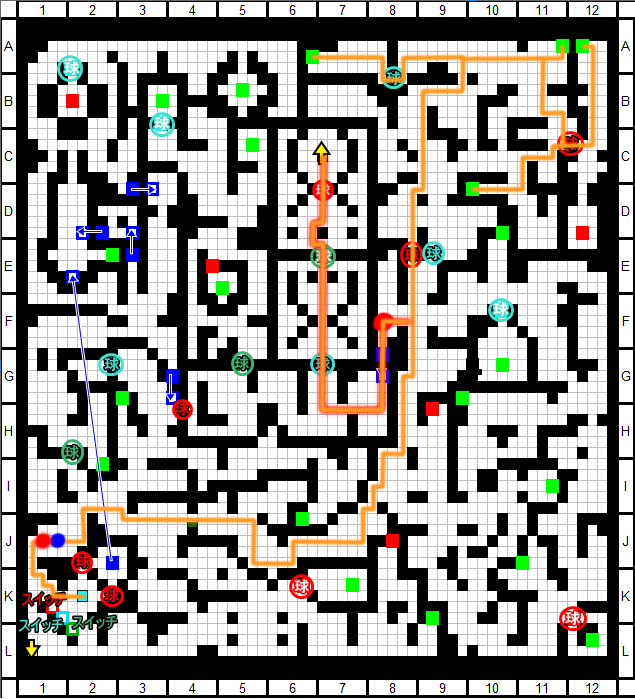
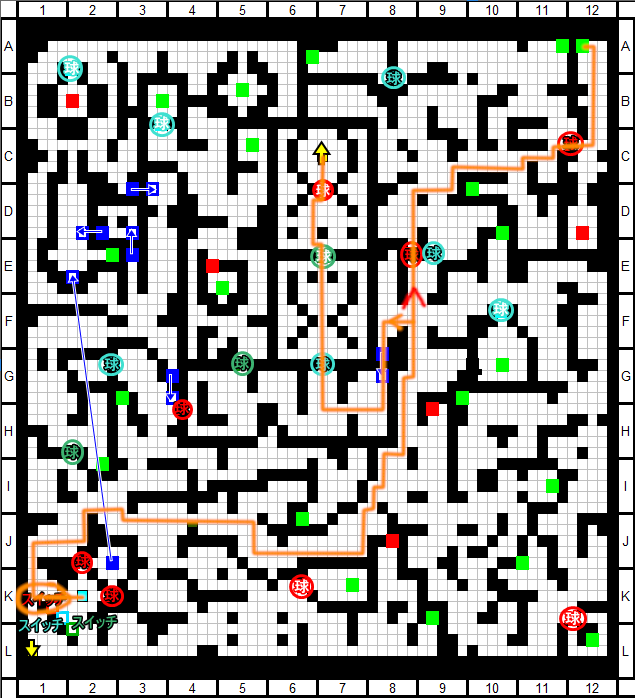
Updated 11F maps and removed another chest

Changed region(s): [[0.4787, 0.0601, 0.9575, 0.691], [0.0, 0.691, 0.5984, 0.9013]]

diff --git a/item/chests.md b/item/chests.md
@@ -297,7 +297,7 @@ Any treasure located in floor A that can only be obtained after reaching floor B
 | Great Hammer | O |
 | HQ Sake Deer | X |
 | Lapis Lazuli Light x2 | X |
-| Pride | O |
+| Pride | X |
 | Purple Orb | O |
 | Scouter | X |
 | Shining Black Stone x2 | X |
@@ -306,8 +306,8 @@ Any treasure located in floor A that can only be obtained after reaching floor B
 | The Arch | O |
 | Treasure Chest Key | O |
 | Yggdrasil Dew | O |
-| Floor Total | 13 |
-| Combined Total | 121 |
+| Floor Total | 12 |
+| Combined Total | 108 |
 
 #### <a id="floor-12"></a>Floor 12
 
